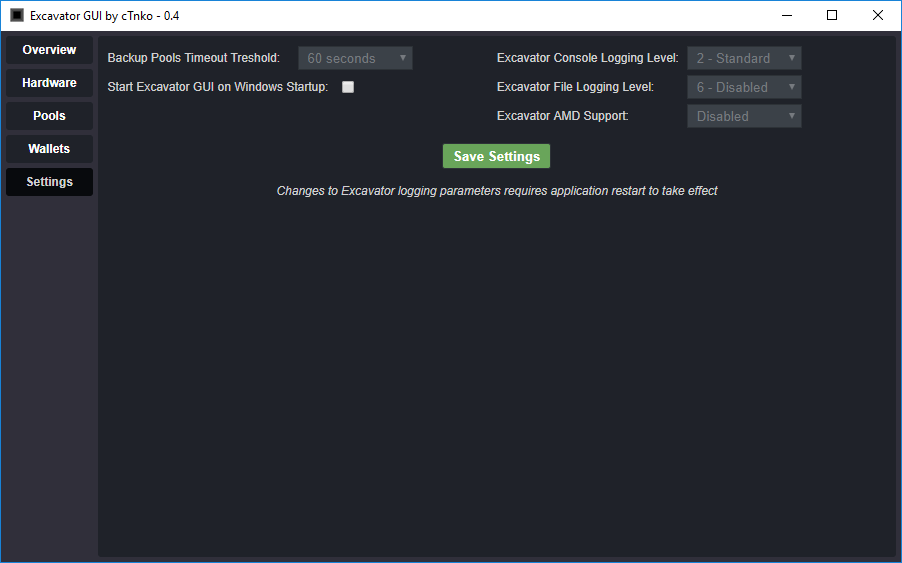
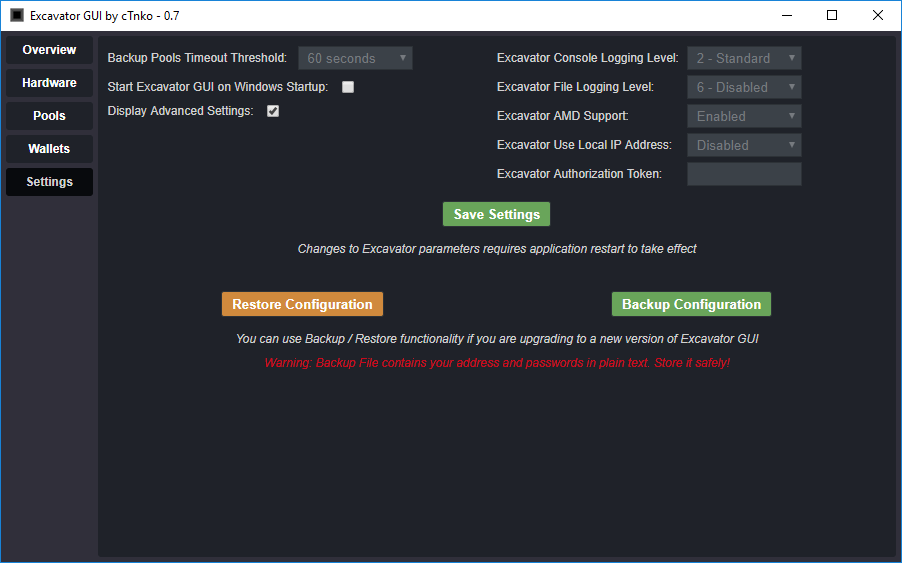
update readme and screenshot for 0.7

diff --git a/README.md b/README.md
@@ -37,7 +37,8 @@ Excavator GUI supports overclocking on Nvidia cards. Use overclocking at your ow
 - Adding device (GPU) to specific automatically adds recommended amount of workers depending on the algorithm and hardware used.
 - Adding device to algorithm which isn't supported on this hardware will be automatically blocked (great for beginners).
 - Backup pools support (if primary pool goes down GUI can automatically switch to a backup pool and continue mining).
-- Jobs that are currently running will be remembered even when the GUI closes or machine shutsdown, next time the GUI is started it will automatically resume all active jobs (great for machines that run 24/7 and automatically power on after power outtage, just add shortcut to GUI.bat to your Windows startup folder).
+- Jobs that are currently running will be remembered even when the GUI closes or machine shutsdown, next time the GUI is started it will automatically resume all active jobs.
+- You can enable auto-start of the GUI on Windows startup in Settings section (disabled by default).
 
 ## Disclaimer
 Excavator GUI contains 1% developer fee<br />
@@ -54,6 +55,14 @@ If you don't agree with this, please don't use it!<br />
 - Excavator GUI doesn't work on Windows 10 Education (Reason currently unknown)
 
 ### Changelog
+13.07.2017 @ 0.7
+- Added "Display Advanced Settings" checkbox in settings area (enabling various advanced features)
+- Excavator Local IP address is now configurable (advanced feature)
+- Excavator Authorization Token is now configurable (advanced feature)
+- Added Configuration Backup / Restore functionality (advanced feature)
+- Updated NW.js to version 0.23.6
+- Bugfix (Unsupported Overclocking options are no longer visible on AMD cards)
+
 09.07.2017 @ 0.6
 - Possible Bugfix/Workaround for excessive daggerhashimoto share rejects
 
